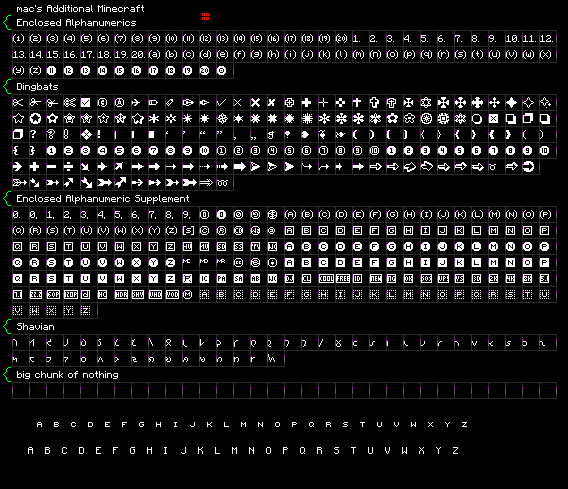
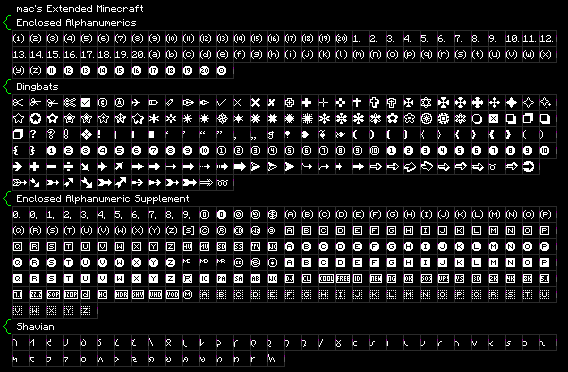
changelog, cleanup

Changed region(s): [[0.0, 0.0, 0.9877, 1.0]]

diff --git a/CHANGELOG.md b/CHANGELOG.md
@@ -1,9 +1,5 @@
-
-# main 1.0 (…)
-- initial release
-
-# extended 1.0 (…)
-- initial release
+# February 5, 2024
+- initial release for main, tweaked, and extended packages
 
 <hr>
 
